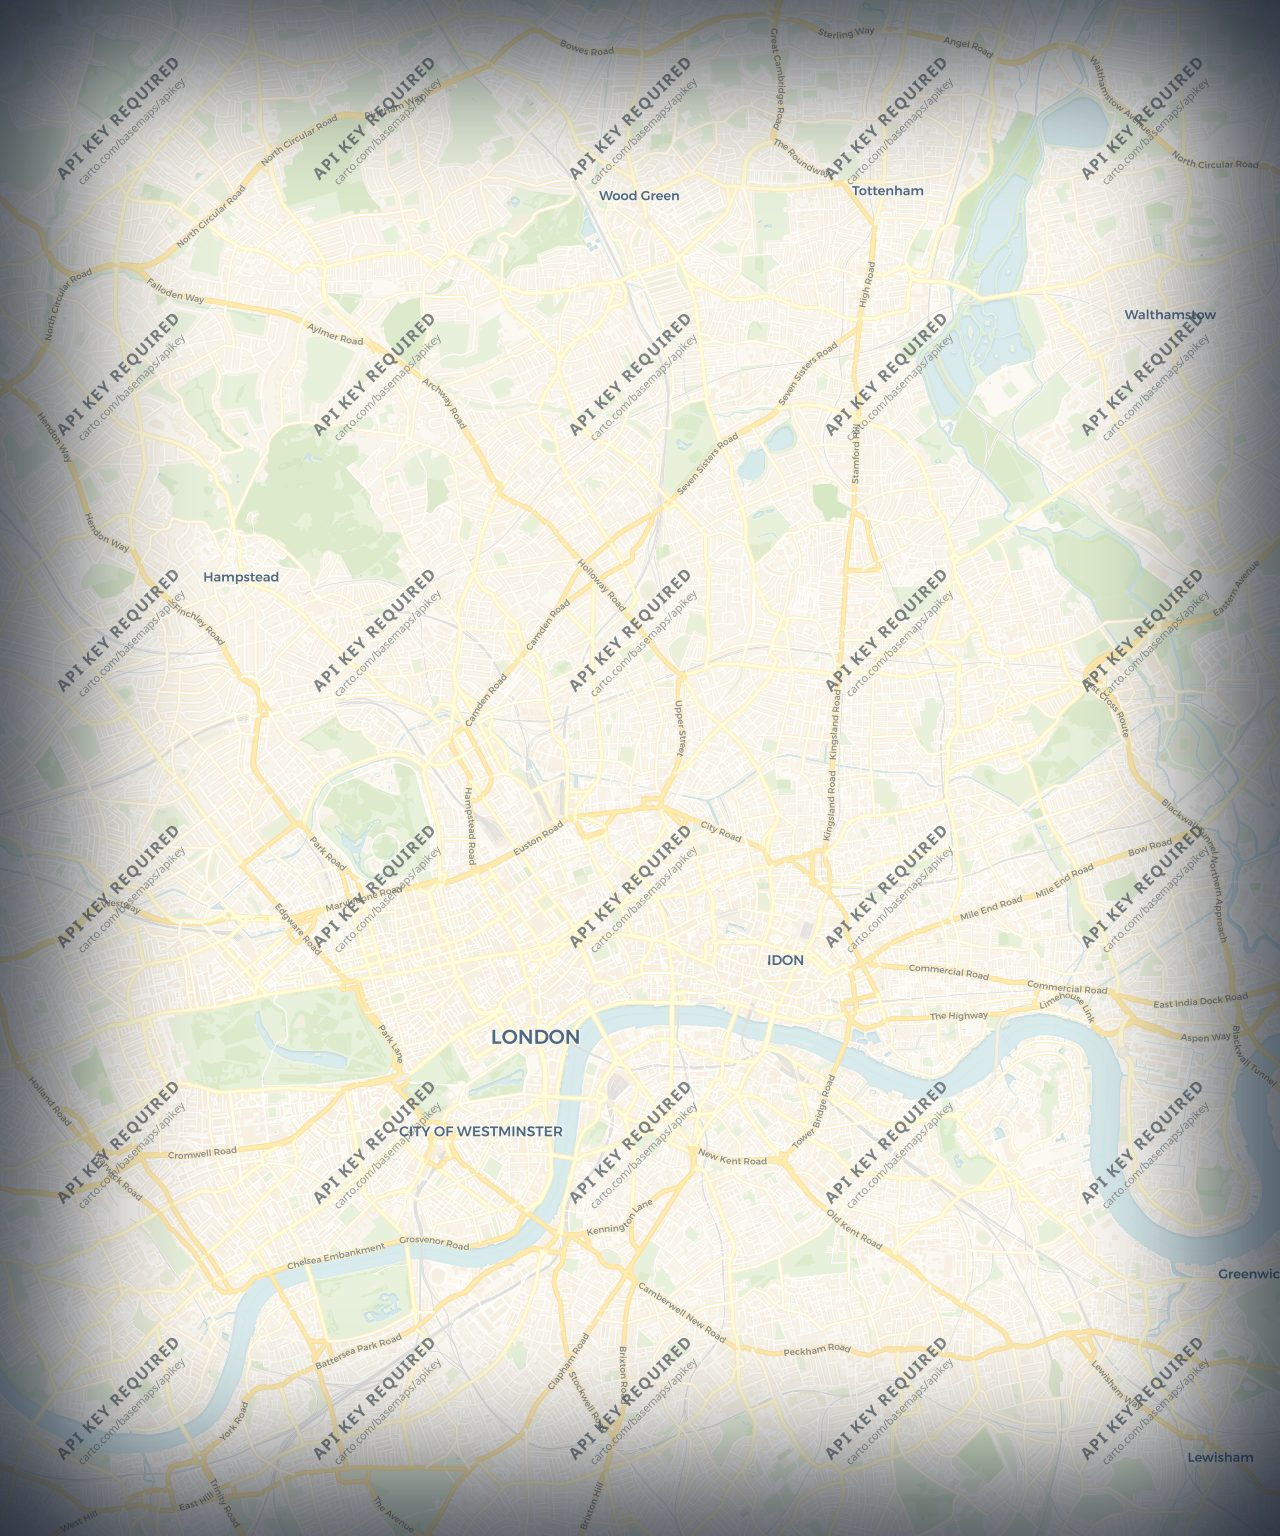
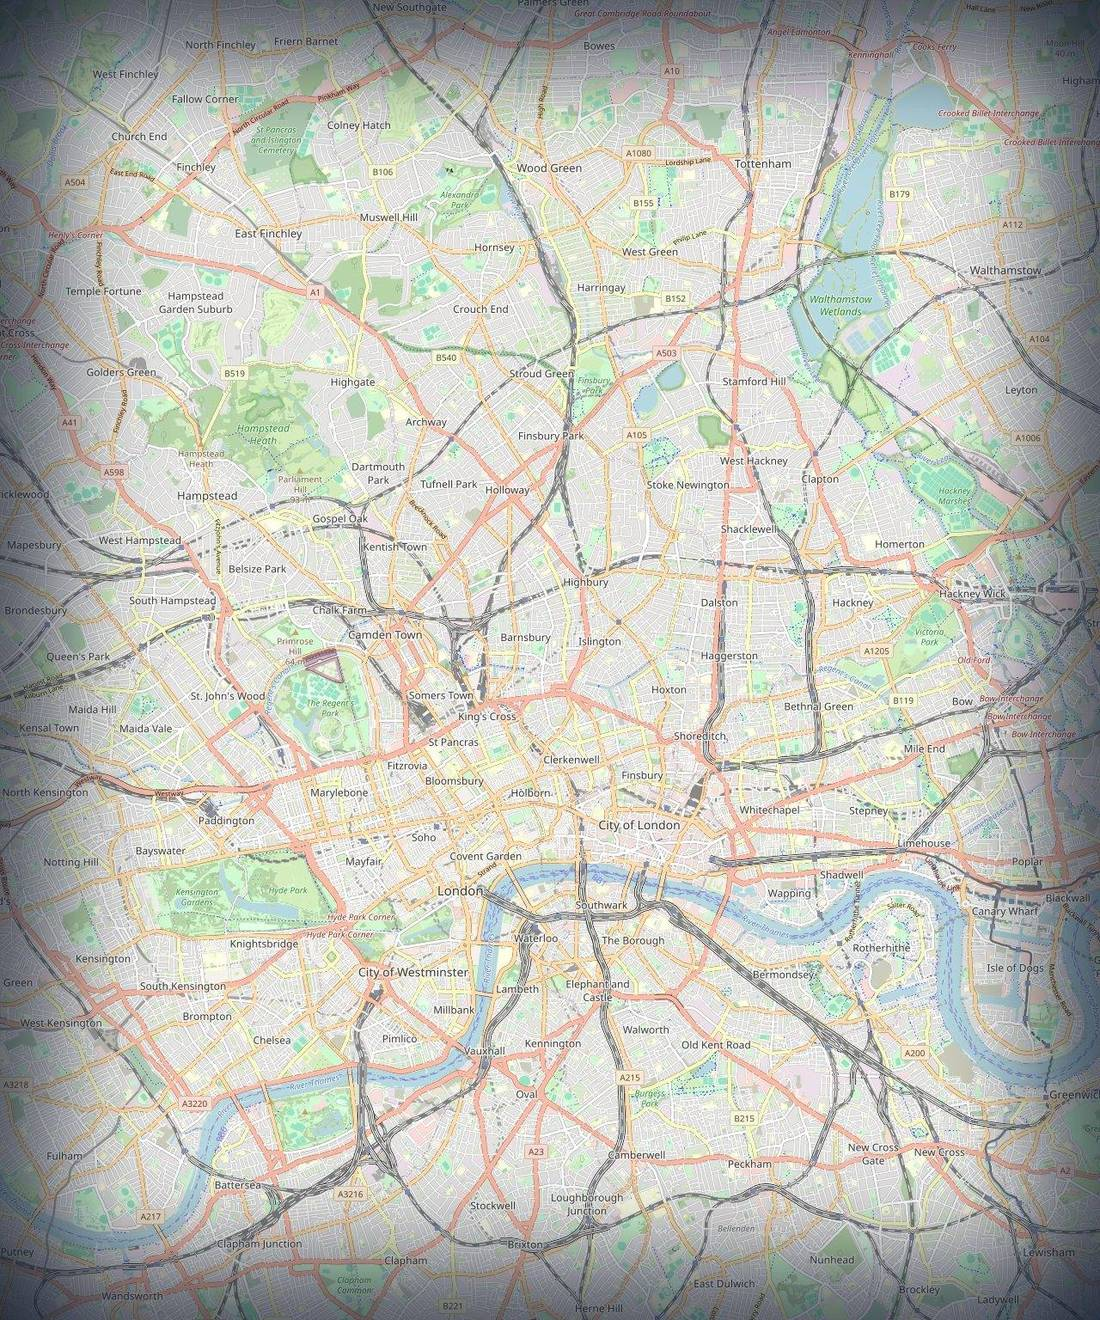
Fix landing hero: clean static map and tighter top spacing.
Replace watermarked Carto bake with OpenStreetMap still and pull copy up under the logo so the shipped landing actually looks finished.

diff --git a/src/app/page.tsx b/src/app/page.tsx
@@ -13,34 +13,35 @@ export default async function HomePage({
 
   return (
     <main className="min-h-svh flex flex-col lg:flex-row lg:h-svh lg:overflow-hidden">
-      <section className="relative z-10 flex flex-col w-full min-h-svh lg:h-full lg:min-h-0 lg:w-[44%] xl:w-[40%] px-5 pt-4 pb-5 sm:px-8 sm:pt-5 sm:pb-6 lg:px-10 lg:pt-6 lg:pb-7 xl:px-12">
+      <section className="relative z-10 flex flex-col w-full min-h-svh lg:h-full lg:min-h-0 lg:w-[44%] xl:w-[40%] px-5 pt-3 pb-4 sm:px-8 sm:pt-4 sm:pb-5 lg:px-10 lg:pt-5 lg:pb-6 xl:px-12">
         <Logo size="md" />
 
-        <div className="mt-5 sm:mt-6 lg:mt-7 flex flex-col gap-5 sm:gap-6 min-h-0">
+        <div className="mt-3 sm:mt-3.5 lg:mt-4 flex flex-col gap-4 sm:gap-5 min-h-0">
           <hgroup className="max-w-xl">
             <h1 className="font-display font-extrabold text-[2.35rem] sm:text-[3.15rem] xl:text-[3.85rem] text-navy leading-[1.05] tracking-[-0.04em]">
               The <span className="hl-accent">startup</span> social network for{" "}
               <span className="hl-accent">IRL</span>
             </h1>
-            <p className="mt-2 sm:mt-2.5 font-display font-semibold text-xl sm:text-2xl text-navy/55 tracking-[-0.02em]">
+            <p className="mt-1.5 sm:mt-2 font-display font-semibold text-xl sm:text-2xl text-navy/55 tracking-[-0.02em]">
               London Edition
             </p>
           </hgroup>
 
-          <div className="max-w-xl space-y-5 sm:space-y-6 font-display font-semibold tracking-[-0.02em] text-[1.35rem] sm:text-[1.65rem] xl:text-[1.85rem] leading-[1.25] text-navy/85">
+          <div className="max-w-xl space-y-4 sm:space-y-5 font-display font-semibold tracking-[-0.02em] text-[1.4rem] sm:text-[1.7rem] xl:text-[1.9rem] leading-[1.22] text-navy/85">
             <p>
               It&apos;s time to make it easy to meet{" "}
               <span className="hl-accent">cool people</span>
-              <br className="hidden sm:block" /> in the{" "}
-              <span className="hl-accent">startup world</span>
-              <br className="hidden sm:block" /> when you are up for it
+              <br />
+              in the <span className="hl-accent">startup world</span>
+              <br />
+              when you are up for it
             </p>
             <p>
               See who&apos;s <span className="hl-accent">spontaneously</span> up
               for a hang
-              <br className="hidden sm:block" /> and form{" "}
-              <span className="hl-accent">real connection</span>,
-              <br className="hidden sm:block" />{" "}
+              <br />
+              and form <span className="hl-accent">real connection</span>,
+              <br />
               <span className="hl-accent">no bs</span> selling upfront
             </p>
           </div>
@@ -68,7 +69,7 @@ export default async function HomePage({
           </div>
         </div>
 
-        <p className="mt-auto pt-8 sm:pt-10 text-base sm:text-lg text-navy/70 leading-snug max-w-xl">
+        <p className="mt-auto pt-6 sm:pt-8 text-base sm:text-lg text-navy/70 leading-snug max-w-xl">
           The V1 is for London. If you want us to launch in your city,{" "}
           <Link
             href="/waitlist/city"

diff --git a/src/components/LandingHeroMap.tsx b/src/components/LandingHeroMap.tsx
@@ -100,7 +100,7 @@ export default function LandingHeroMap({ className = "" }: { className?: string 
         fill
         priority
         sizes="(max-width: 1024px) 100vw, 60vw"
-        className="object-cover object-center"
+        className="object-cover object-[50%_42%]"
       />
 
       <div className="absolute inset-0 pointer-events-none bg-gradient-to-t from-navy/25 via-transparent to-navy/10" />
@@ -112,6 +112,9 @@ export default function LandingHeroMap({ className = "" }: { className?: string 
 
       <p className="absolute bottom-4 left-1/2 -translate-x-1/2 z-20 text-center text-lg text-navy/80 bg-paper/85 backdrop-blur-sm px-4 py-2 rounded-lg max-w-[90%] leading-snug landing-card-in landing-card-delay-3">
         Go live, see who matches nearby, meet in person.
+      </p>
+      <p className="absolute bottom-2 right-3 z-10 text-[10px] text-navy/45 pointer-events-none">
+        © OpenStreetMap
       </p>
     </div>
   );
